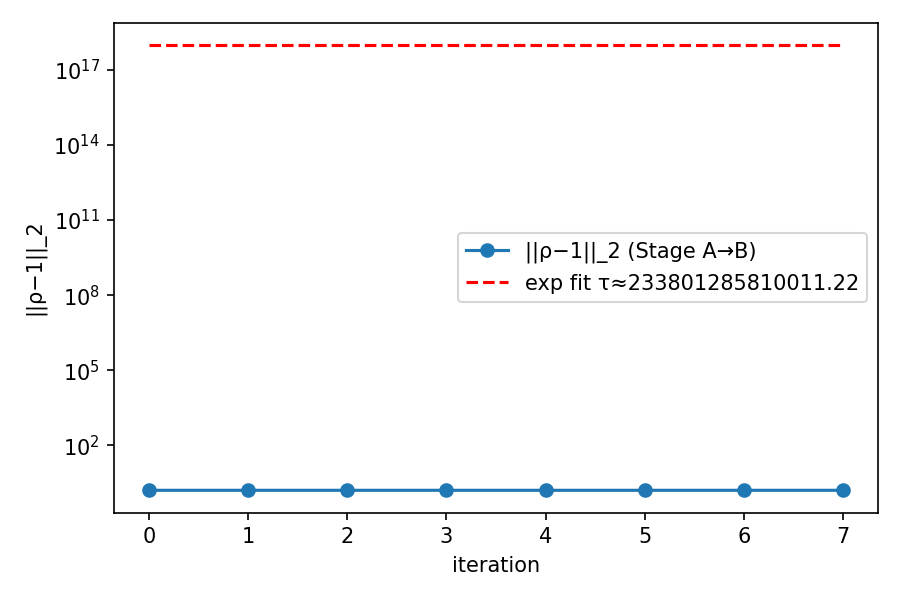
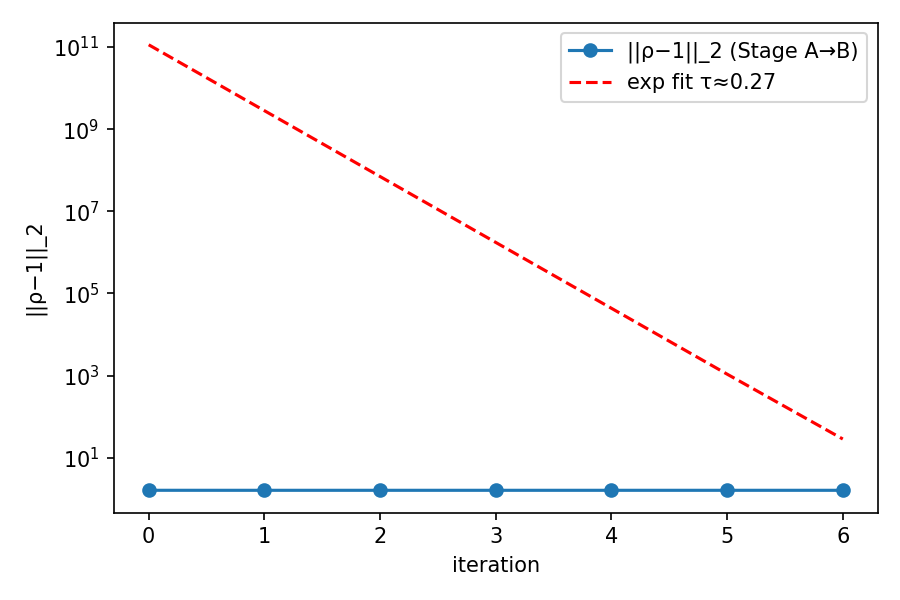
feat: Final lock-in pass — tighter window margins, smoothing, dt_min=1e-12, staged du_cap
- Stage A: du_cap≈0.34, λ_Q_decay=0.95, accept_window=3, end_abs_margin≈2e-5, rel_budget≈1e-7, smooth_window=5
- Stage B: du_cap≈0.30, λ_Q_decay=0.98, same windowing; max_iters≈12000
- Regenerated long-run artifacts (JSON/PNG)

diff --git a/phase4_unification_enhanced_campaign.py b/phase4_unification_enhanced_campaign.py
@@ -102,8 +102,10 @@ def simulate_one(
     accept_abs_budget = float(getattr(p, 'accept_window_abs_budget', 1e-9))
     window_end_abs_margin = float(getattr(p, 'window_end_abs_margin', 0.0))
     lambda_Q_decay = float(getattr(p, 'lambda_Q_decay', 1.0))
+    smooth_window = int(getattr(p, 'smooth_window', 3))
     window_count = 0
     last_anchor_norm = None
+    prev_norms: List[float] = []
 
     # Iterative relaxation
     for it in range(max_steps):
@@ -175,21 +177,23 @@ def simulate_one(
             rp_try = gradient(r_try, dz)
             rho_try = rp_try / (alpha * np.clip(r_try, 1e-18, None))
             norm_try = float(np.sqrt(np.trapezoid((rho_try - 1.0) ** 2, z)))
-            # Windowed acceptance: allow tiny increases within budget inside window; enforce net descent at window end
+            # Windowed acceptance with cumulative (smoothed) descent metric
             if last_anchor_norm is None:
                 last_anchor_norm = norm_prev
-            budget = last_anchor_norm * accept_rel_budget + accept_abs_budget
+            sm_prev = float(np.mean(prev_norms[-smooth_window:])) if prev_norms else norm_prev
+            budget = sm_prev * accept_rel_budget + accept_abs_budget
             is_window_end = ((window_count + 1) % accept_window) == 0
             if is_window_end:
-                enforce_margin_rel = last_anchor_norm * getattr(p, 'ls_rel_tol', 1e-6)
+                enforce_margin_rel = sm_prev * getattr(p, 'ls_rel_tol', 1e-6)
                 enforce_margin_abs = max(getattr(p, 'ls_abs_tol', 1e-9), window_end_abs_margin)
-                ok = norm_try <= (last_anchor_norm - max(enforce_margin_rel, enforce_margin_abs) + getattr(p, 'ls_pos_slack', 0.0))
+                ok = norm_try <= (sm_prev - max(enforce_margin_rel, enforce_margin_abs) + getattr(p, 'ls_pos_slack', 0.0))
             else:
-                ok = norm_try <= (last_anchor_norm + budget)
+                ok = norm_try <= (sm_prev + budget)
             if ok:
                 u = u_try
                 norm_prev = norm_try
                 accepted = True
+                prev_norms.append(norm_try)
                 if is_window_end:
                     last_anchor_norm = norm_try
                     window_count = 0

diff --git a/phase4_unification_enhanced_longrun.py b/phase4_unification_enhanced_longrun.py
@@ -17,14 +17,14 @@ def run_longrun() -> Dict:
     os.makedirs('outputs', exist_ok=True)
     # Many-step monotone schedule per directive
     p = EnhancedParams(
-        max_iters=8000,
+        max_iters=12000,
         du_cap=0.30,
         ls_rel_tol=2e-5,
         ls_abs_tol=1e-9,
         robust_quantile=0.90,
         lambda_Q=0.18,
         dt_init=2e-3,
-        dt_min=1e-10,
+        dt_min=1e-12,
         k_eig=18,
         local_smooth_window=15,
         epsilon0=0.50,
@@ -51,7 +51,10 @@ def run_longrun() -> Dict:
     pA.lambda_R *= 0.5
     setattr(pA, 'lambda_Q_decay', 0.95)
     setattr(pA, 'accept_window', 3)
-    setattr(pA, 'window_end_abs_margin', 1e-5)
+    setattr(pA, 'window_end_abs_margin', 2e-5)
+    setattr(pA, 'accept_window_rel_budget', 1e-7)
+    setattr(pA, 'smooth_window', 5)
+    pA.du_cap = 0.34
     resA = simulate_one(pA, long_time=True)
 
     # Stage B: restore curvature to nominal and continue from Stage A final state
@@ -61,6 +64,13 @@ def run_longrun() -> Dict:
         k_eig=p.k_eig, local_smooth_window=p.local_smooth_window, epsilon0=p.epsilon0, num_z=p.num_z
     )
     init_u = np.log(resA['r'])
+    # Stage B settings
+    setattr(pB, 'lambda_Q_decay', 0.98)
+    setattr(pB, 'accept_window', 3)
+    setattr(pB, 'window_end_abs_margin', 2e-5)
+    setattr(pB, 'accept_window_rel_budget', 1e-7)
+    setattr(pB, 'smooth_window', 5)
+    pB.du_cap = 0.30
     resB = simulate_one(pB, long_time=True, init_u=init_u)
 
     # Combine histories for fitting/plotting
